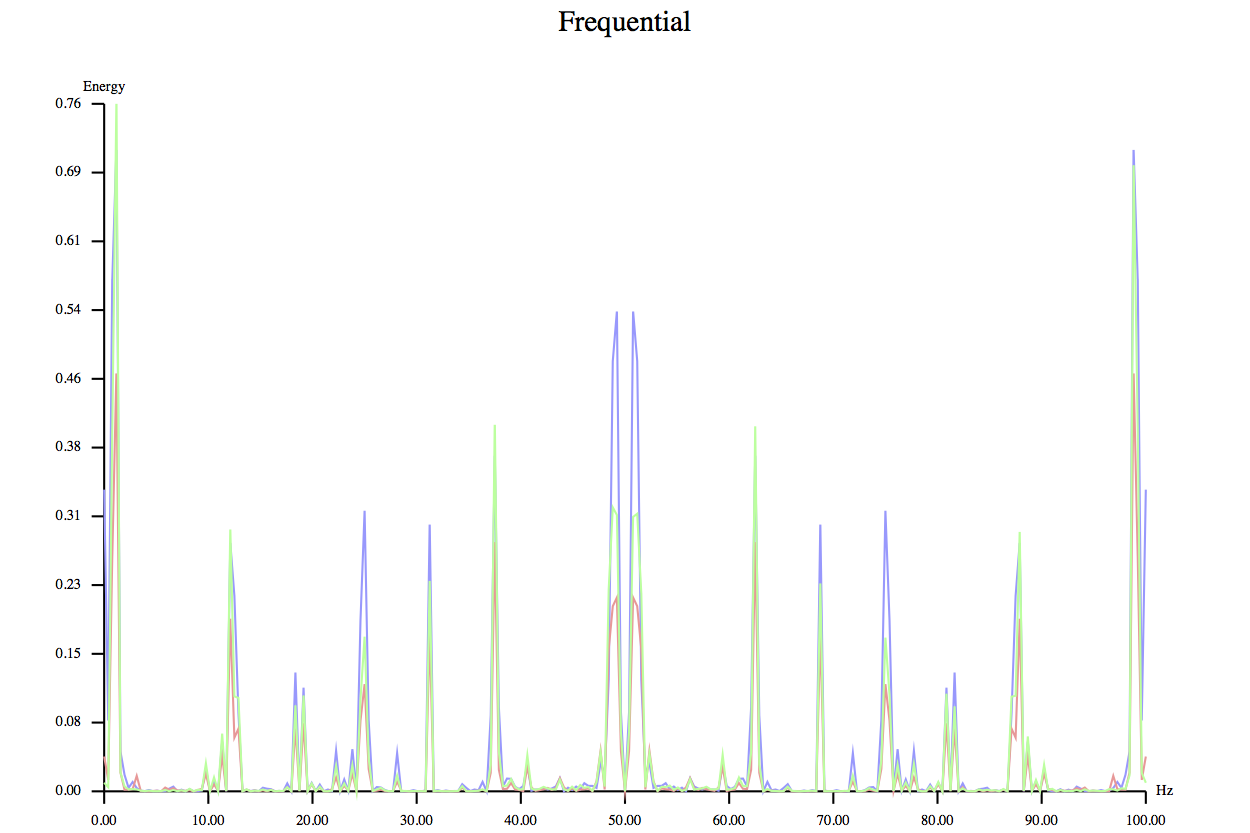
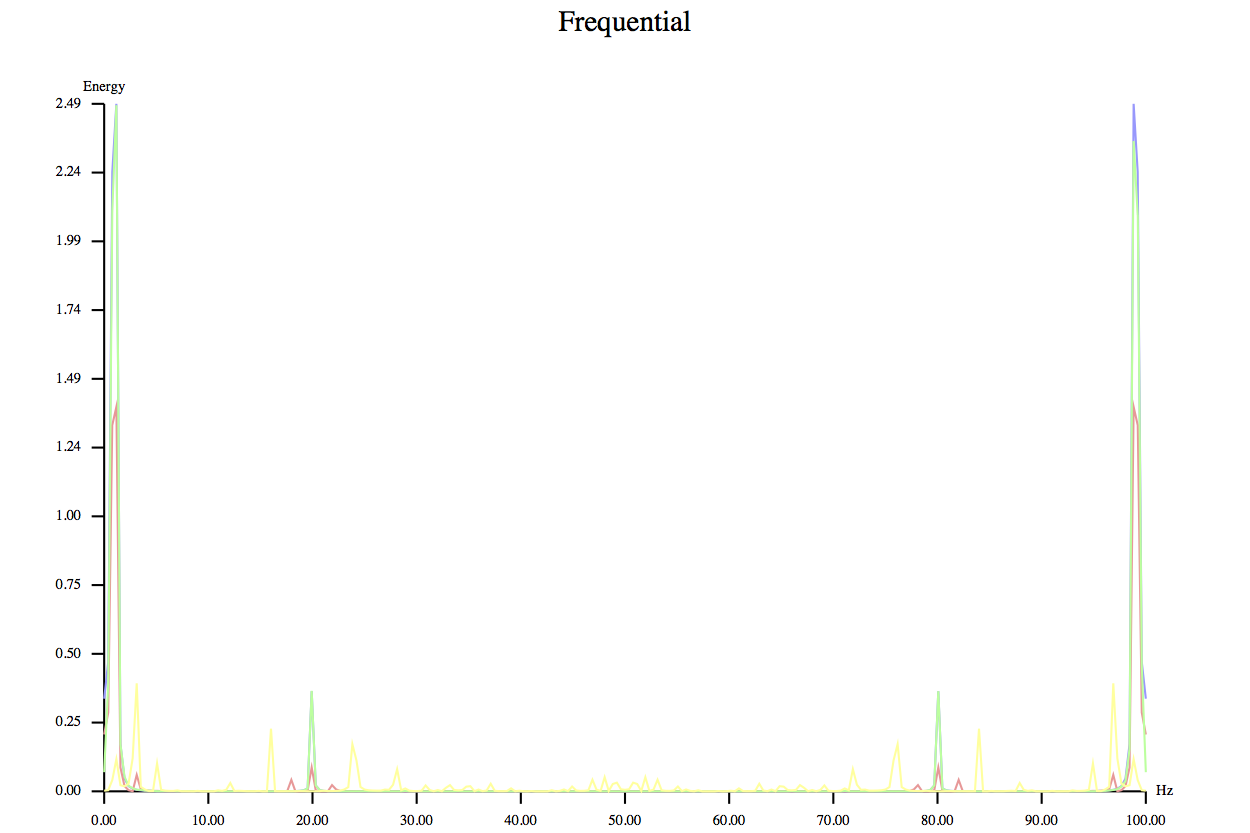
Signal post updated with new plots after correction of a small bit reversing bug in the FFT.

Changed region(s): [[0.0312, 0.1561, 0.936, 0.9676]]

diff --git a/content/102.html b/content/102.html
@@ -77,8 +77,10 @@ None of the packages I have seen so far were matching my needs. So, I decided to
 </p>
 <p>All the curves above are generated with the same code :
 </p>
-<div class="haskell"><span class='hs-definition'>genericSignal</span>&nbsp;<span class='hs-keyglyph'>::</span>&nbsp;<span class='hs-keyword'>forall</span>&nbsp;<span class='hs-varid'>a</span><span class='hs-varop'>.</span>&nbsp;<span class='hs-layout'>(</span><span class='hs-conid'>Fractional</span>&nbsp;<span class='hs-varid'>a</span><span class='hs-layout'>,</span>&nbsp;<span class='hs-conid'>HasDoubleRepresentation</span>&nbsp;<span class='hs-varid'>a</span><span class='hs-layout'>)</span>&nbsp;<span class='hs-keyglyph'>=&gt;</span>&nbsp;<span class='hs-conid'>Signal</span>&nbsp;<span class='hs-varid'>a</span><br/><span class='hs-definition'>genericSignal</span>&nbsp;<span class='hs-keyglyph'>=</span>&nbsp;<span class='hs-varid'>mapS</span>&nbsp;<span class='hs-layout'>(</span><span class='hs-keyglyph'>\</span><span class='hs-varid'>t</span>&nbsp;<span class='hs-keyglyph'>-&gt;</span>&nbsp;&nbsp;<span class='hs-num'>2</span><span class='hs-varop'>*</span><span class='hs-layout'>(</span><span class='hs-varid'>fromDouble</span>&nbsp;<span class='hs-varop'>$</span>&nbsp;<span class='hs-num'>1.5</span><span class='hs-varop'>*</span><span class='hs-varid'>sin</span>&nbsp;<span class='hs-layout'>(</span><span class='hs-num'>2</span><span class='hs-varop'>*</span><span class='hs-varid'>pi</span><span class='hs-varop'>*</span><span class='hs-varid'>getT</span>&nbsp;<span class='hs-varid'>t</span><span class='hs-layout'>)</span><span class='hs-layout'>)</span><span class='hs-layout'>)</span>&nbsp;<span class='hs-varid'>theTimes</span><br/></div>
+<div class="haskell"><span class='hs-definition'>genericSignal</span>&nbsp;<span class='hs-keyglyph'>::</span>&nbsp;<span class='hs-keyword'>forall</span>&nbsp;<span class='hs-varid'>a</span><span class='hs-varop'>.</span>&nbsp;<span class='hs-conid'>Sample</span>&nbsp;<span class='hs-varid'>a</span>&nbsp;<span class='hs-keyglyph'>=&gt;</span>&nbsp;<span class='hs-conid'>Signal</span>&nbsp;<span class='hs-varid'>a</span><br/><span class='hs-definition'>genericSignal</span>&nbsp;<span class='hs-keyglyph'>=</span>&nbsp;<span class='hs-varid'>mapS</span>&nbsp;<span class='hs-layout'>(</span><span class='hs-keyglyph'>\</span><span class='hs-varid'>t</span>&nbsp;<span class='hs-keyglyph'>-&gt;</span>&nbsp;&nbsp;<span class='hs-num'>2</span><span class='hs-varop'>*</span><span class='hs-layout'>(</span><span class='hs-varid'>fromDouble</span>&nbsp;<span class='hs-varop'>$</span>&nbsp;<span class='hs-num'>1.5</span><span class='hs-varop'>*</span><span class='hs-varid'>sin</span>&nbsp;<span class='hs-layout'>(</span><span class='hs-num'>2</span><span class='hs-varop'>*</span><span class='hs-varid'>pi</span><span class='hs-varop'>*</span><span class='hs-varid'>getT</span>&nbsp;<span class='hs-varid'>t</span><span class='hs-layout'>)</span>&nbsp;<br/>&nbsp;&nbsp;&nbsp;&nbsp;&nbsp;&nbsp;&nbsp;&nbsp;&nbsp;&nbsp;&nbsp;&nbsp;&nbsp;&nbsp;&nbsp;&nbsp;&nbsp;&nbsp;&nbsp;&nbsp;&nbsp;&nbsp;&nbsp;<span class='hs-varop'>+</span>&nbsp;<span class='hs-num'>0.4</span><span class='hs-varop'>*</span><span class='hs-varid'>sin</span><span class='hs-layout'>(</span><span class='hs-num'>2</span><span class='hs-varop'>*</span><span class='hs-varid'>pi</span><span class='hs-varop'>*</span><span class='hs-num'>20</span><span class='hs-varop'>*</span><span class='hs-varid'>getT</span>&nbsp;<span class='hs-varid'>t</span><span class='hs-layout'>)</span><span class='hs-layout'>)</span><span class='hs-layout'>)</span>&nbsp;<span class='hs-varid'>theTimes</span><br/></div>
 <p><em>fromDouble</em> is a simple way to convert a double into a fixed point. That's the reason for <em>HasDoubleRepresentation</em>. In a future version I may have a fixed point algorithm to compute the sine.
+</p>
+<p><em>Sample</em> is a constraint kind.
 </p>
 <p>I have typed the time and frequency hence the <em>getT</em>.
 </p>
@@ -106,6 +108,9 @@ None of the packages I have seen so far were matching my needs. So, I decided to
 </p>
 <div class="haskell"><span class='hs-definition'>spectruma</span>&nbsp;<span class='hs-keyglyph'>::</span>&nbsp;<span class='hs-conid'>Signal</span>&nbsp;<span class='hs-conid'>Double</span><br/><span class='hs-layout'>(</span><span class='hs-varid'>freqR</span><span class='hs-layout'>,</span><span class='hs-varid'>spectruma</span><span class='hs-layout'>)</span>&nbsp;<span class='hs-keyglyph'>=</span>&nbsp;<span class='hs-varid'>spectrum</span>&nbsp;<span class='hs-varid'>samplingFrequency</span>&nbsp;<span class='hs-varid'>duration</span>&nbsp;<span class='hs-layout'>(</span><span class='hs-varid'>noWindow</span><span class='hs-layout'>)</span>&nbsp;<span class='hs-varid'>mySignalA</span><br/></div>
 <p><em>freqR</em> is the frequency resolution. It is needed to draw the spectrum.
+</p>
+<p>Note in the previous graphic, only one spectrum is computed with a fixed point FFT (the one with Fixed Int16 3 Saturated).
+Others are using a double FFT but applied on the fixed point signals.
 </p>
 <h1>3. Problems</h1>
 <h2>3.1. Type level arithmetic</h2>
